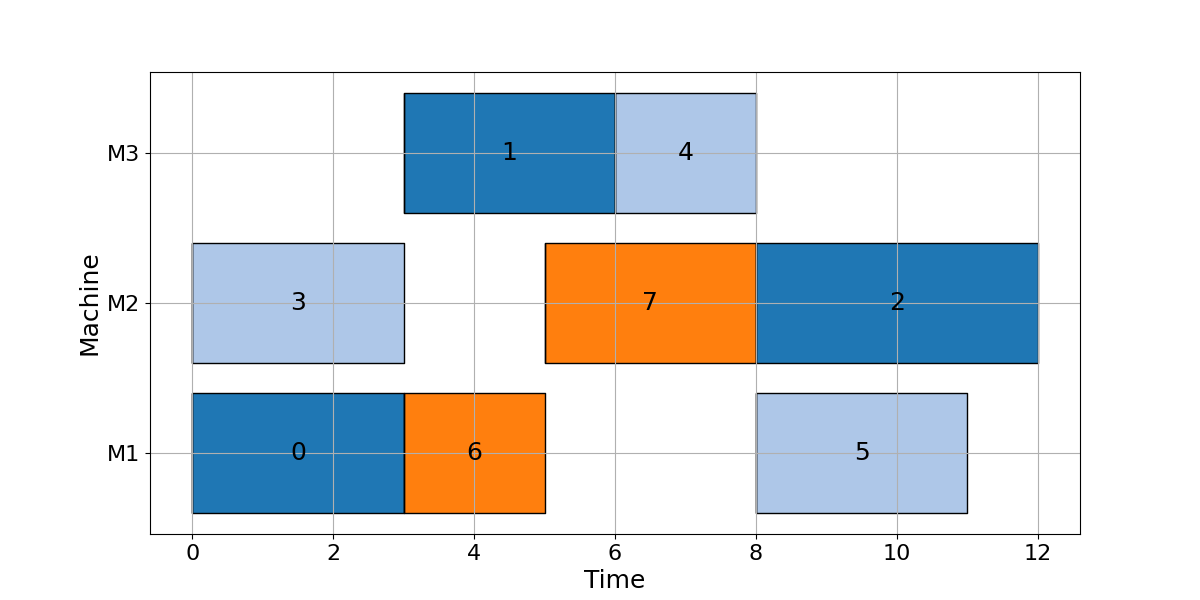
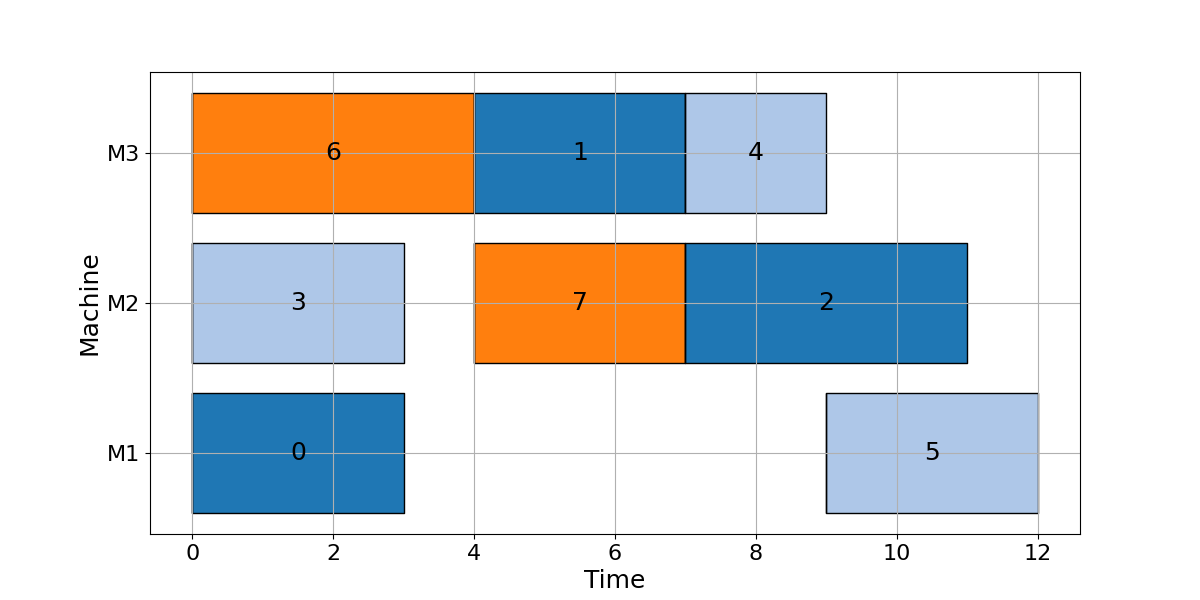
Added a new file to run CP-SAT for the other instances.

diff --git a/run_cpsat_only.py b/run_cpsat_only.py
@@ -26,14 +26,25 @@ from solution_methods.cp_sat.utils import solve_model
 
 logging.basicConfig(level=logging.INFO)
 
-SIZES = ['20x10', '50x10', '100x10', '200x10', '1005', '1510', '2005']
+SIZES = [
+    '10x10', '20x10', '30x10', '40x10', '50x10', '100x10', '200x10',
+    '20x20', '20x30', '1005', '1510', '2005',
+]
 
-# Diese Groessen liegen direkt unter data/fjsp/{size}/, ohne "sagc_" Praefix.
-NO_PREFIX_SIZES = {'1005', '1510', '2005'}
+
+def dirname_for_size(size):
+    """Wandelt ein 'JxM' Groessenlabel (z.B. '20x10') in den tatsaechlichen
+    Ordnernamen unter data/fjsp/ um (z.B. '2010' = 20 Jobs + 2-stellig
+    gepaddete Maschinenzahl). Labels ohne 'x' (z.B. '1005') sind bereits
+    der Ordnername und werden unveraendert zurueckgegeben."""
+    if 'x' not in size:
+        return size
+    jobs, machines = size.split('x')
+    return f'{int(jobs)}{int(machines):02d}'
 
 
 def get_instances(size):
-    subdir = size if size in NO_PREFIX_SIZES else f'sagc_{size}'
+    subdir = dirname_for_size(size)
     pattern = os.path.join('data', 'fjsp', subdir, '*.fjs')
     files = sorted(glob.glob(pattern))
     if not files:

diff --git a/find_missing.py b/find_missing.py
@@ -19,14 +19,25 @@ import os
 import sys
 
 
-# Diese Groessen liegen direkt unter data/fjsp/{size}/, ohne "sagc_" Praefix.
-NO_PREFIX_SIZES = {'1005', '1510', '2005'}
+SIZES = [
+    '10x10', '20x10', '30x10', '40x10', '50x10', '100x10', '200x10',
+    '20x20', '20x30', '1005', '1510', '2005',
+]
 
-SIZES = ['20x10', '50x10', '100x10', '200x10', '1005', '1510', '2005']
+
+def dirname_for_size(size):
+    """Wandelt ein 'JxM' Groessenlabel (z.B. '20x10') in den tatsaechlichen
+    Ordnernamen unter data/fjsp/ um (z.B. '2010' = 20 Jobs + 2-stellig
+    gepaddete Maschinenzahl). Labels ohne 'x' (z.B. '1005') sind bereits
+    der Ordnername und werden unveraendert zurueckgegeben."""
+    if 'x' not in size:
+        return size
+    jobs, machines = size.split('x')
+    return f'{int(jobs)}{int(machines):02d}'
 
 
 def find_missing(size):
-    subdir = size if size in NO_PREFIX_SIZES else f'sagc_{size}'
+    subdir = dirname_for_size(size)
     pattern = os.path.join('data', 'fjsp', subdir, '*.fjs')
     all_files = sorted(glob.glob(pattern))
     if not all_files:
